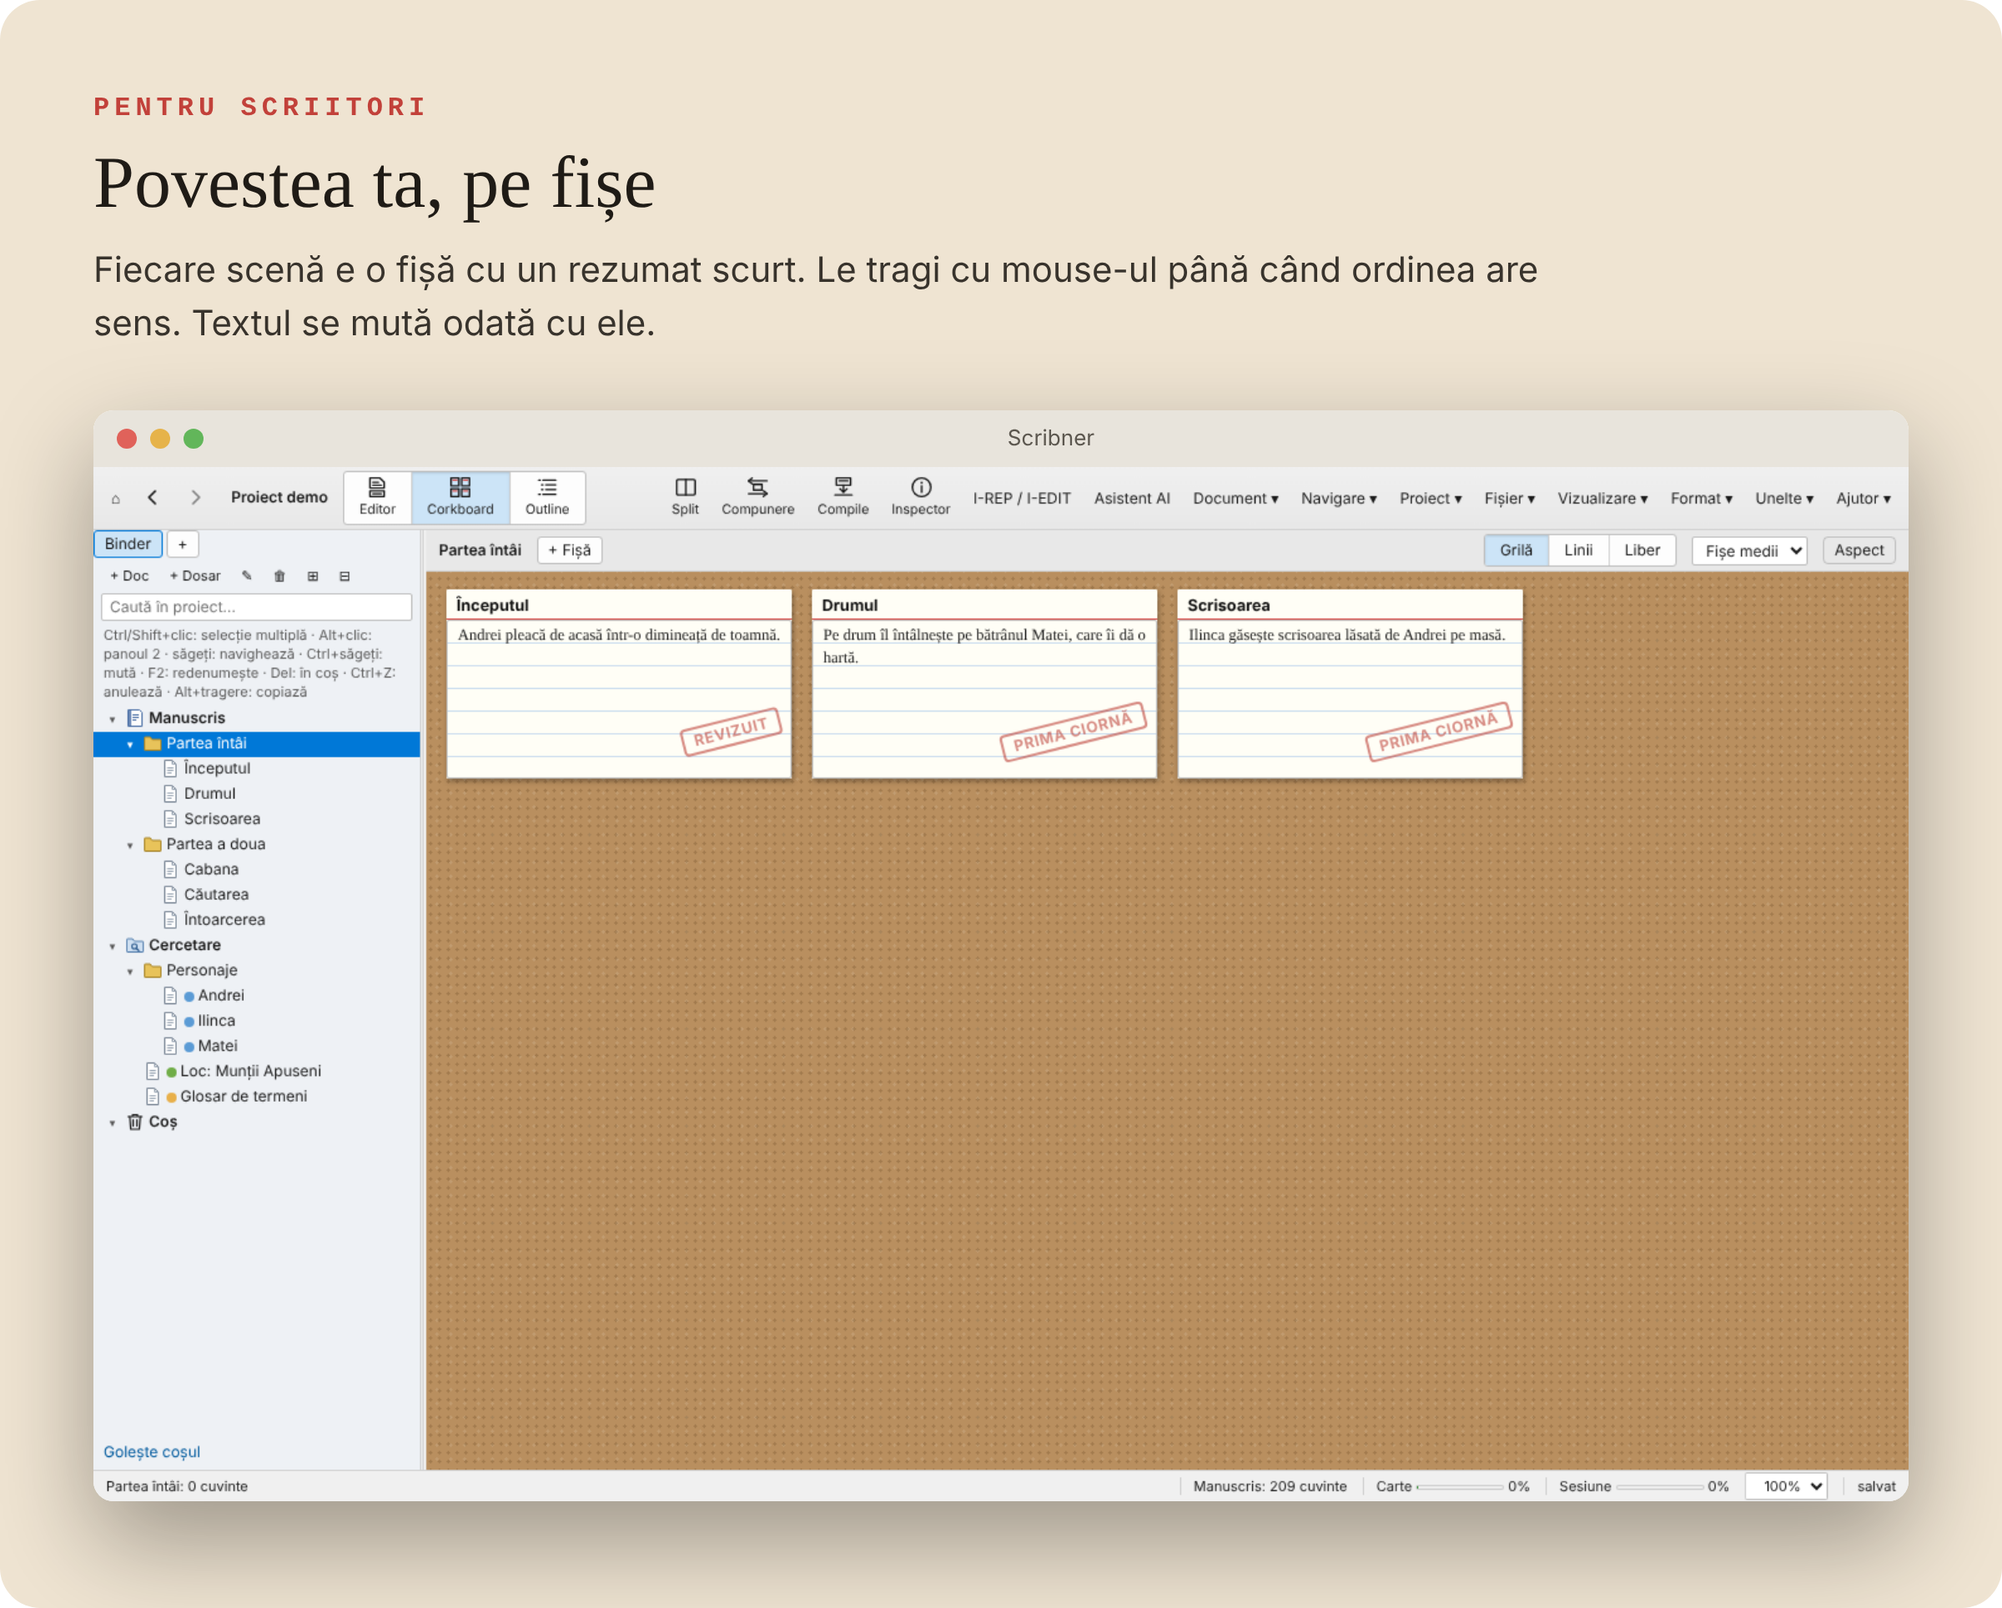
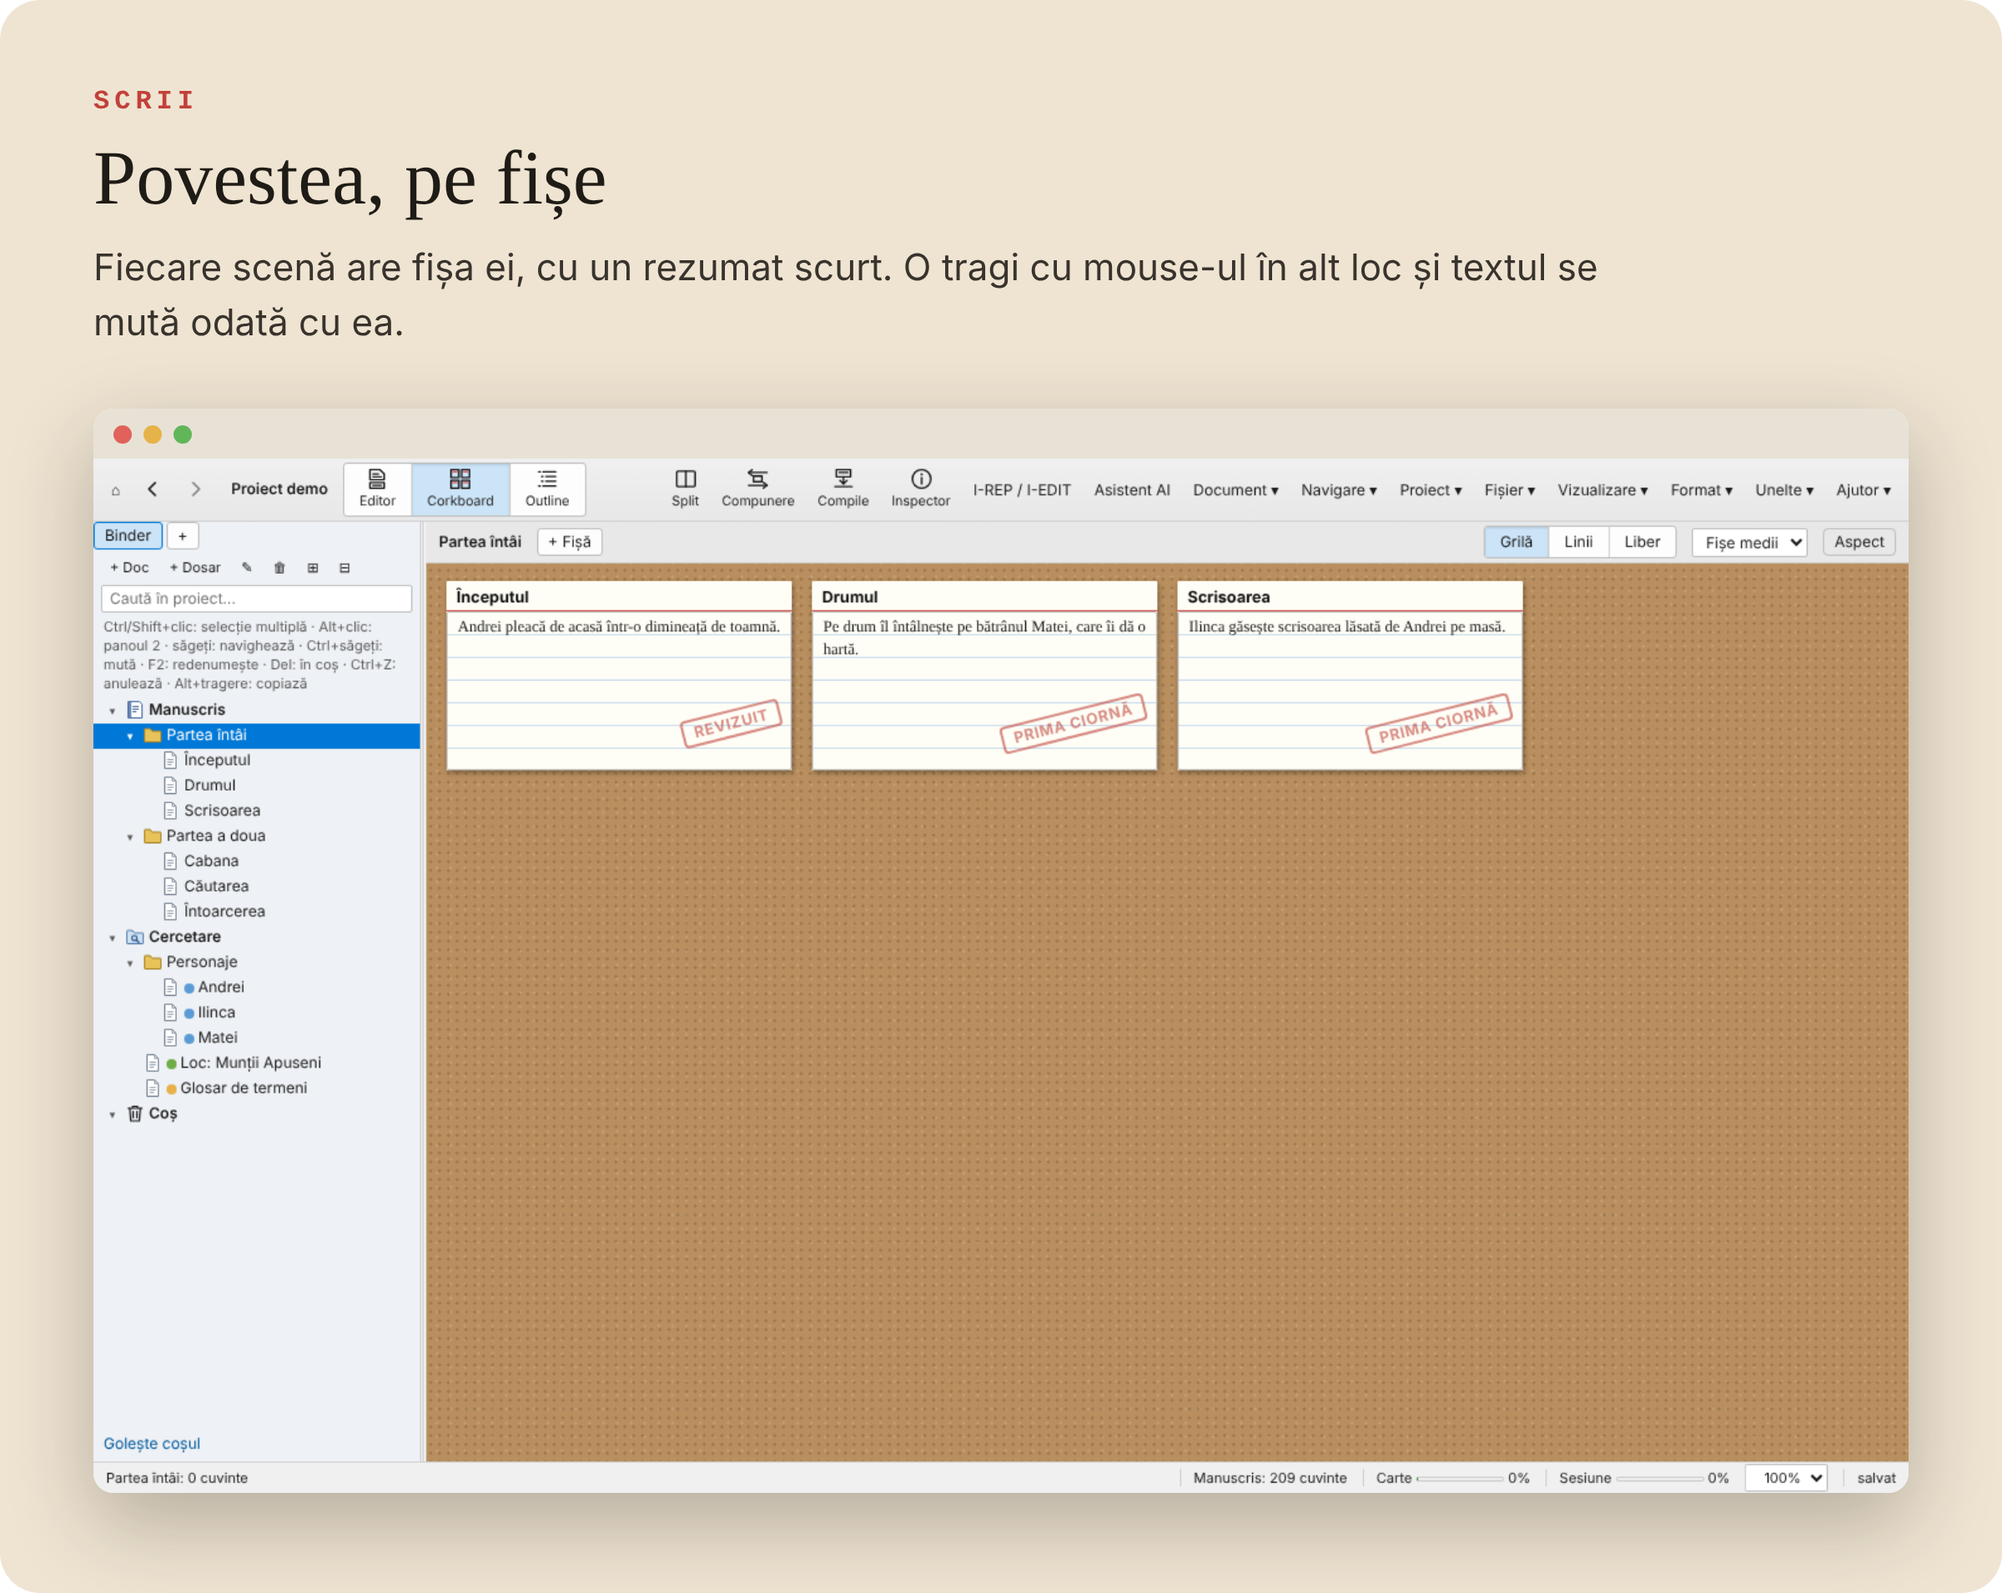
README rescris de la zero: hero cu programul real, pași, traducători, scriitori, corectură, final, instalare
Claude-Session: https://claude.ai/code/session_01T8AExWyk7HCrGiHdhUW6kq

diff --git a/README.md b/README.md
@@ -1,110 +1,132 @@
 <p align="center">
-  <img src="./assets/readme/hero.svg" width="100%" alt="Scribner, locul în care cartea ta prinde formă: scrii pe bucăți, le muți cum vrei și la final primești cartea în Word, PDF sau e-book">
+  <img src="./assets/readme/hero.png" width="100%" alt="Scribner, program de scris gratuit: cartea ta pe bucăți, apoi întreagă. Captură cu panoul de fișe al unui roman.">
 </p>
 
-Scrii o carte, traduci una sau lucrezi la o teză? Un singur fișier Word de 300 de pagini devine greu de stăpânit. În Scribner, textul stă pe bucăți mici, câte una pentru fiecare scenă sau capitol, pe care le vezi, le muți și le găsești ușor. Când ai terminat, apeși un buton și primești cartea întreagă, gata de trimis.
+<p align="center">
+  <a href="../../releases/latest"><strong>Descarcă pentru Windows</strong></a> ·
+  <a href="#cum-îl-instalezi">Instalare</a> ·
+  <a href="#întrebări">Întrebări</a> ·
+  <a href="#sub-capotă">Sub capotă</a>
+</p>
+
+Un roman, o traducere sau o teză într-un singur fișier Word de 300 de pagini devine greu de stăpânit. În Scribner textul stă pe bucăți mici, câte una pentru fiecare scenă sau capitol. Le vezi, le muți și le găsești ușor. Când ai terminat, apeși un buton și primești cartea întreagă.
+
+<p align="center">
+  <img src="./assets/readme/workflow.svg" width="100%" alt="Patru pași: aduci textul, scrii pe fișe, verifici, primești cartea întreagă în DOCX, PDF sau EPUB">
+</p>
 
 <p align="center">
   <img src="./assets/readme/for-whom.svg" width="100%" alt="Pentru cine e: scrii o carte, traduci o carte, scrii o lucrare">
 </p>
 
-## Traduci o carte
+## Pentru traducători
 
 <p align="center">
-  <img src="./assets/readme/translate.png" width="100%" alt="Scribner cu originalul englez în stânga și traducerea în română în dreapta">
+  <img src="./assets/readme/translate.png" width="100%" alt="Originalul englez în stânga și traducerea română în dreapta, pe același ecran">
 </p>
 
-- Pui fișierul Word primit de la editură și Scribner îl împarte singur pe capitole.
-- Ții originalul la stânga și traducerea la dreapta, pe același ecran.
-- Clic dreapta pe un cuvânt sau o frază: o trimiți la DeepL, o cauți în dexonline, Linguee sau IATE, ori ceri AI-ului o explicație. Termenul ajunge cu un clic în glosarul tău.
-- Notezi termenii grei în Cercetare, ca glosar, și îi ai mereu la un clic distanță.
-- La final trimiți înapoi un singur fișier Word, cu notele de subsol la locul lor.
-
-## Scrii o carte
+Pui fișierul Word primit de la editură și Scribner îl împarte pe capitole. Ții originalul într-o parte și traducerea în cealaltă. La final trimiți înapoi un singur fișier Word, cu notele de subsol la locul lor.
 
 <p align="center">
-  <img src="./assets/readme/corkboard.png" width="100%" alt="Fișele unui capitol pe un panou de plută, fiecare cu titlul și rezumatul scenei">
+  <img src="./assets/readme/context.png" width="100%" alt="Clic dreapta pe un cuvânt: meniul cu Traduce (DeepL, Google Translate), Dicționare, Cercetare pe web, Asistent AI și În proiect">
 </p>
 
-- Fiecare scenă are fișa ei, cu un rezumat de două rânduri.
-- Le muți cu mouse-ul până când povestea curge cum vrei.
-- Îți pui o țintă, de exemplu 1.000 de cuvinte pe zi, și vezi cât ai scris.
-- Înainte de o schimbare mare faci o „poză” a textului și te poți întoarce oricând la ea.
+Clic dreapta pe un cuvânt și ai la îndemână:
+
+- **Traduce:** DeepL sau Google Translate, pe cuvânt, pe frază sau pe un paragraf întreg.
+- **Dicționare:** dexonline și sinonime, Wiktionary, Cambridge, Merriam-Webster, Linguee cu exemple traduse, IATE pentru terminologia UE.
+- **Asistent AI:** cercetare despre termen, explicație, corectură sau traducere, cu înainte și după.
+- **În proiect:** caută termenul în toată cartea și în notele tale sau pune-l în glosar.
+- **NotebookLM:** întrebi despre termen în sursele tale.
+
+Nu trebuie să selectezi nimic înainte: clic dreapta pe un cuvânt îl selectează singur, iar meniul extinde selecția la frază sau la paragraf.
+
+## Pentru scriitori
+
+<p align="center">
+  <img src="./assets/readme/corkboard.png" width="100%" alt="Panoul de fișe: fiecare scenă cu titlul, rezumatul și starea ei">
+</p>
+
+Fiecare scenă are fișa ei, cu un rezumat de două rânduri. O muți cu mouse-ul și textul se mută odată cu ea. Îți pui o țintă, de exemplu 1.000 de cuvinte pe zi, și vezi cât ai scris.
+
+<p align="center">
+  <img src="./assets/readme/timeline.png" width="100%" alt="Cronologia: scenele pe zile, câte un fir pentru fiecare personaj">
+</p>
+
+Personajele, locurile și cercetarea stau lângă text. Cronologia îți arată pe zile cine unde e, ca să prinzi contradicțiile înainte de editor.
+
+## Corectezi fără grijă
+
+<p align="center">
+  <img src="./assets/readme/irep.png" width="100%" alt="Revizia automată găsește ghilimele, spații și punctuație greșite">
+</p>
+
+Revizia automată, fără AI, găsește ghilimelele greșite, spațiile duble, punctuația și repetițiile, apoi le repară cu un clic.
+
+<p align="center">
+  <img src="./assets/readme/ai.png" width="100%" alt="Asistentul AI arată corectura cuvânt cu cuvânt, cu înainte și după">
+</p>
+
+Dacă vrei, asistentul AI face corectură, rezumate sau o a doua părere. Vezi exact ce schimbă și accepți doar ce îți place. Merge cu furnizorul tău, de la Anthropic și OpenAI la un model care rulează pe calculatorul tău. Poți opri AI-ul complet din Setări.
+
+<p align="center">
+  <img src="./assets/readme/snapshots.png" width="100%" alt="Două versiuni ale aceluiași text, comparate una lângă alta">
+</p>
+
+Înainte de o rescriere mare faci o „poză” a textului. Mai târziu compari versiunile și te întorci la cea bună. Totul se salvează singur, iar copiile de siguranță se fac automat.
 
 ## La final, cartea întreagă
 
 <p align="center">
-  <img src="./assets/readme/compile.png" width="100%" alt="Fereastra în care alegi forma finală a cărții: manuscris, carte tipărită sau e-book">
+  <img src="./assets/readme/compile.png" width="100%" alt="Fereastra în care alegi forma finală: manuscris, carte tipărită sau e-book">
 </p>
 
-Alegi forma (manuscris pentru editură, carte tipărită sau e-book) și Scribner adună totul într-un singur fișier: Word, PDF, EPUB și altele. Pagina de titlu, cuprinsul și numerotarea capitolelor se fac singure.
+Alegi forma: manuscris pentru editură, carte tipărită sau e-book. Scribner adună bucățile într-un singur fișier Word, PDF sau EPUB, cu pagină de titlu, cuprins și capitole numerotate. Fișierele trec verificările programelor care le deschid: Word, LibreOffice, cititoarele de e-book.
 
-## Ce mai poate
+## Cum îl instalezi
 
-<p align="center">
-  <img src="./assets/readme/ai.png" width="100%" alt="Asistentul AI arată corectura cu înainte și după, cuvânt cu cuvânt">
-</p>
+Din pagina [Releases](../../releases/latest) descarci una dintre variante:
 
-<p align="center">
-  <img src="./assets/readme/irep.png" width="100%" alt="Revizia fără AI găsește ghilimele, spații și diacritice greșite">
-</p>
+- **`Scribner-Setup-<versiune>.exe`** e programul de instalare, cu wizard în română. Alegi folderul, primești scurtătură pe Desktop și în meniul Start, iar la final programul pornește. Nu cere drepturi de administrator. La dezinstalare, cărțile tale rămân.
+- **`Scribner-<versiune>-portabil.exe`** merge fără instalare, de oriunde, chiar de pe stick.
 
-<p align="center">
-  <img src="./assets/readme/snapshots.png" width="100%" alt="Compararea a două versiuni ale aceluiași text">
-</p>
+La prima pornire, deschide **Tutorialul interactiv** din ecranul de start: 15 lecții scurte, în care înveți lucrând. Manualul complet se deschide oricând cu F1.
 
-<p align="center">
-  <img src="./assets/readme/timeline.png" width="100%" alt="Cronologia scenelor pe firul fiecărui personaj">
-</p>
+## Întrebări
 
-<p align="center">
-  <img src="./assets/readme/composition.png" width="100%" alt="Modul pe tot ecranul, doar textul">
-</p>
+**Am nevoie de internet?** Nu. Scribner merge pe calculatorul tău și textele rămân la tine. Internetul îți trebuie doar pentru DeepL, dicționarele online și AI.
 
-## Întrebări pe care le ai probabil
+**Pot aduce ce am scris deja?** Da: Word, RTF, ODT, Markdown, pagini web, scenarii Fountain sau Final Draft și proiecte `.scriv`.
 
-**Am nevoie de internet?** Nu. Scribner merge pe calculatorul tău, iar textele rămân la tine.
-
-**Se poate pierde ceva?** Totul se salvează singur, pe măsură ce scrii. Ai și copii de siguranță automate și „poze” ale fiecărui document.
-
-**Pot aduce ce am scris deja?** Da: Word, RTF, ODT, Markdown, pagini web și proiecte `.scriv`.
-
-**Trebuie să folosesc inteligență artificială?** Nu. Programul e complet fără ea. Dacă vrei, o pornești din Setări cu furnizorul tău, pentru corectură, rezumate sau o a doua părere. O poți opri oricând.
+**Trebuie să folosesc AI?** Nu. Programul e complet fără el.
 
 **În ce limbă e?** Română sau engleză, la alegere.
 
-## Cum îl pornești
-
-Pe Windows ai două variante, în pagina [Releases](../../releases):
-
-- **`Scribner-Setup.exe`**: programul de instalare, ca la orice aplicație. Alegi limba și folderul și primești scurtătură pe Desktop și în meniul Start. Se dezinstalează din Setări → Aplicații, iar textele tale rămân.
-- **`Scribner-portabil.exe`**: nu se instalează. Îl pui oriunde, chiar pe stick, și îl pornești. Setările stau lângă el.
-
-La prima pornire poți deschide **Tutorialul interactiv** din ecranul de start: 15 lecții scurte în care înveți făcând. Manualul complet e mereu la F1.
+**Cât costă?** Nimic. E gratuit și cu cod deschis.
 
 ## Sub capotă
 
 <details>
 <summary><strong>Pentru cine vrea detalii tehnice</strong></summary>
 
-**Construit din cod sursă** (ai nevoie de Node.js 22+):
+**Din cod sursă** (Node.js 22+):
 
 ```bash
 npm install
-npm start          # construiește și pornește aplicația
+npm start                # construiește și pornește aplicația
 npm run dist:win         # aplicația împachetată și varianta portabilă, în release/
 npm run dist:win:setup   # installerul cu wizard (Inno Setup 6, pe Windows)
 ```
 
-`npm run dev` deschide interfața în browser; cu `?demo` la finalul adresei pornește un proiect demonstrativ.
+`npm run dev` deschide interfața în browser; cu `?demo` la finalul adresei pornește proiectul demonstrativ din capturi.
 
-**Asistent AI.** Furnizori: Anthropic, OpenAI, Google Gemini, OpenRouter, Mistral, Groq, DeepSeek, xAI, Ollama și LM Studio local, sau orice serviciu compatibil OpenAI. Cheia e criptată de sistemul de operare și rămâne în procesul principal; interfața nu o vede. Face corectură cu diferențe înainte/după, rezumate, continuare în stilul tău, critică, verificare de consistență, fișe de personaje și revizie pe niveluri. Răspunsul se scrie în timp real și se poate anula.
+**Asistent AI.** Furnizori: Anthropic, OpenAI, Google Gemini, OpenRouter, Mistral, Groq, DeepSeek, xAI, Ollama și LM Studio local, sau orice serviciu compatibil OpenAI. Cheia e criptată de sistemul de operare și rămâne în procesul principal; interfața nu o vede. Răspunsul se scrie în timp real și se poate anula.
 
-**Revizie fără AI.** I-REP găsește și repară problemele de tipografie și stil, apoi reverifică; I-EDIT rulează runde editoriale. Profilul „Generic” merge pe orice text; profilul „Română” aplică DOOM III și regulile P1–P13 / R0–R11.
+**Revizie.** I-REP găsește și repară problemele de tipografie și stil, apoi reverifică; I-EDIT rulează runde editoriale. Profilul „Generic” merge pe orice text; profilul „Română” aplică DOOM III și regulile P1–P13 / R0–R11.
 
-**NotebookLM.** „Exportă pentru NotebookLM” pregătește cartea ca surse (un fișier pe capitol, cercetarea și notele separat, cuprins cu rezumate), în limitele NotebookLM.
+**NotebookLM.** „Exportă pentru NotebookLM” pregătește cartea ca surse: un fișier pe capitol, cercetarea și notele separat, cuprins cu rezumate.
 
-**Agenți AI prin MCP.** Serverul `mcp/server.mjs` dă acces oricărui client MCP la un proiect: citire și scriere, binder, căutare, metadate, note, comentarii, I-REP, snapshot-uri, Compile. Fiecare scriere face snapshot înainte și se notează în `agent-log.jsonl`. `--read-only` permite doar citirea.
+**Agenți AI prin MCP.** `mcp/server.mjs` dă oricărui client MCP acces la un proiect: citire și scriere, căutare, metadate, note, I-REP, snapshot-uri, Compile. Înainte de fiecare scriere face o copie, notează totul în `agent-log.jsonl` și nu calcă peste salvările aplicației. `--read-only` permite doar citirea.
 
 ```bash
 claude mcp add scribner -- node "/cale/Scribner/mcp/server.mjs" --project "/cale/Cartea mea.scribner"
@@ -112,7 +134,7 @@ claude mcp add scribner -- node "/cale/Scribner/mcp/server.mjs" --project "/cale
 
 **Formate.** Import: DOCX, RTF, ODT, HTML, Markdown, Fountain, Final Draft, OPML, pagini web, BibTeX/CSL-JSON, `.scriv`. Export și Compile: DOCX, PDF, EPUB, HTML, RTF, ODT, Markdown, MultiMarkdown, text, LaTeX, Fountain, Final Draft, `.scriv`.
 
-**Formatul proiectului.** Un folder cu fișiere text simple, ușor de versionat cu git sau de sincronizat cu orice cloud:
+**Formatul proiectului.** Un folder cu fișiere text simple, ușor de pus în git sau de sincronizat cu orice cloud. Schimbările făcute din afară se îmbină cu cele din aplicație.
 
 ```text
 Cartea mea.scribner/
@@ -123,7 +145,7 @@ Cartea mea.scribner/
   media/                 imagini, PDF, audio
 ```
 
-**Teste.** `npm test` rulează testele bibliotecilor; `npm run test:e2e` pornește aplicația reală în Electron și parcurge fluxurile principale. Ambele rulează în CI la fiecare schimbare. Verificat pe Linux; neverificat încă pe Windows. Planul complet e în [`ROADMAP.md`](ROADMAP.md).
+**Teste.** `npm test` rulează peste 540 de teste ale bibliotecilor. `npm run test:e2e` pornește aplicația reală în Electron și parcurge fluxurile principale. În CI rulează pe Linux și pe Windows, unde se construiesc și installerul și varianta portabilă. Planul complet e în [`ROADMAP.md`](ROADMAP.md).
 
 </details>
 
